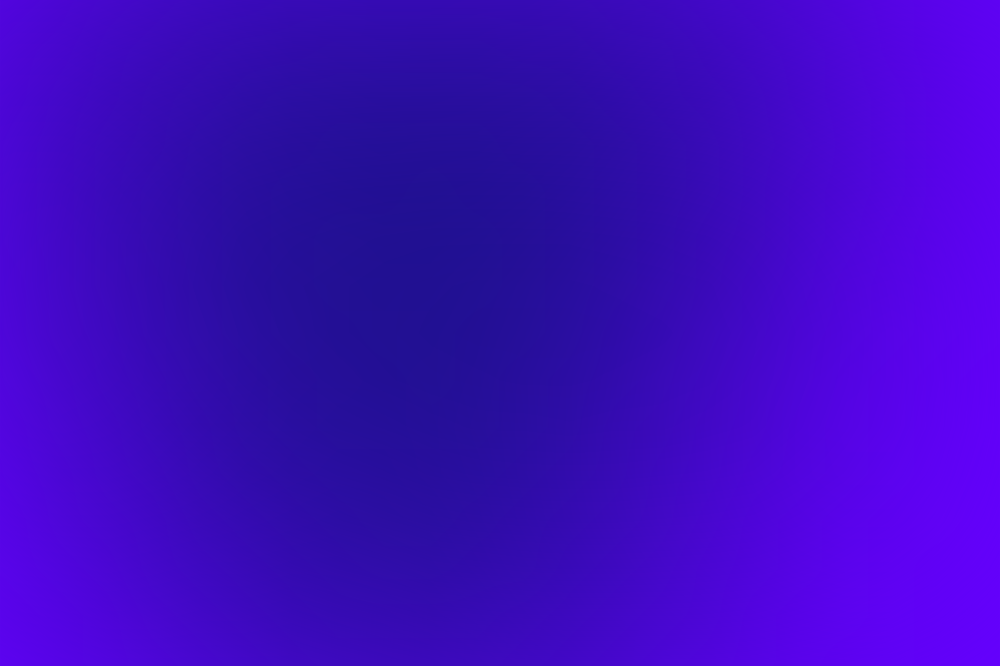
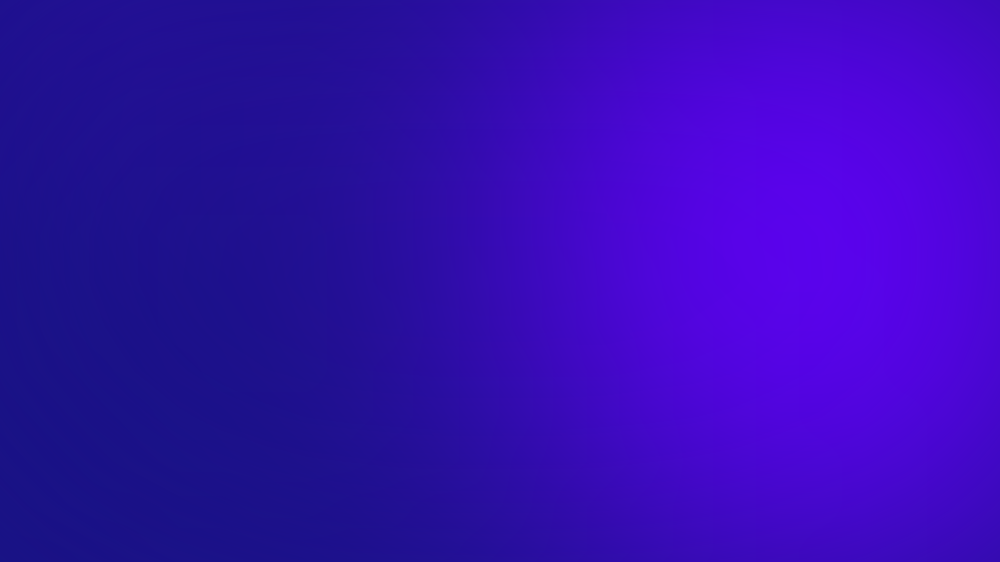
made profile picture and name

diff --git a/styles/index.css b/styles/index.css
@@ -13,6 +13,14 @@ body, html {
     height: 100%;
     background: url(../resources/images/phone-background.png);
 }
+@media only screen and (min-width: 500px) {
+    body {
+        background: url(../resources/images/pc-background.png);
+        background-repeat: no-repeat;
+        background-size: cover;
+    }
+}
+
 
 /*----- PROFILE -----*/
 .profile {
@@ -28,4 +36,18 @@ body, html {
     color: rgb(255, 255, 255);
     padding-top: 1.8rem;
     font-size: 1.7rem;
+}
+@media only screen and (min-width: 500px) {
+    .profile {
+        flex-direction: row;
+    }
+    .profile img {
+        width: 10%;
+        padding-top: 1rem;
+        padding-left: 1rem;
+    }
+    .profile h1 {
+        font-size: 2rem;
+        padding-left: 2rem;
+    }
 }
